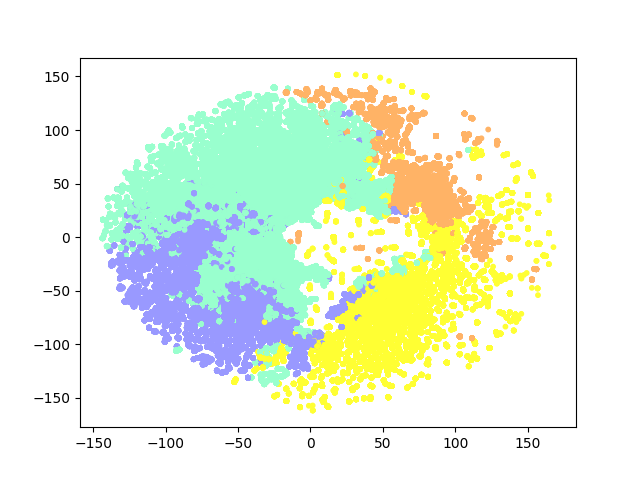
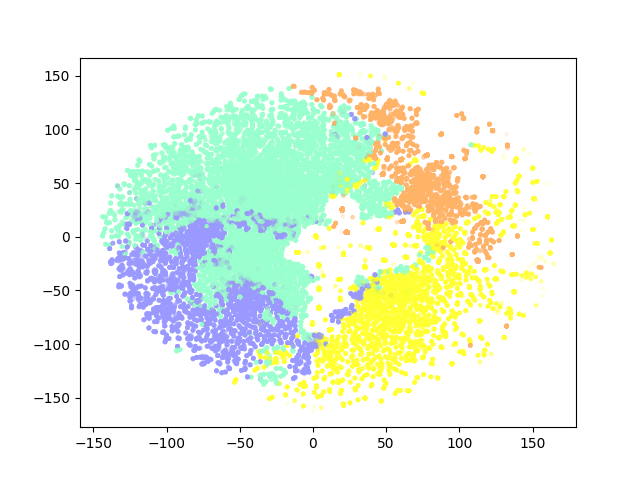
tsne final & 3d visualization script update and report

diff --git a/3d_visualization/visualization_script.py b/3d_visualization/visualization_script.py
@@ -13,20 +13,12 @@ if __name__ == '__main__':
     df = pd.read_pickle('../data/labeling_visualizations/kmeans_clean_labeling.pkl')
     print(df.columns)
 
-    # it is supported only for numerical features
-    labeling_features = ['nightly_temperature', 'nremhr', 'spo2', 'rmssd', 'full_sleep_breathing_rate', 'deep_sleep_breathing_rate',
-       'light_sleep_breathing_rate', 'rem_sleep_breathing_rate', 'stress_score', 'responsiveness_points', 'wrist_temperature', 'vo2max', 'oxygen_variation',
-       'scl_avg', 'mindfulness_start_heart_rate', 'mindfulness_end_heart_rate', 'resting_heart_rate', 'mood_value', 'bpm']
-
     # add jitter factor to the data
-    visualize_df = df.copy()
     jitter_factor = 1.2
-    for column in labeling_features:
-        visualize_df[column] = visualize_df[column] + np.random.uniform(-jitter_factor, jitter_factor, size=visualize_df[column].shape)
+    df['cluster'] = df['cluster'] + np.random.uniform(-jitter_factor, jitter_factor, size=df['cluster'].shape)
 
     # run the 3d plot
-    visualize_df.dropna(subset=['stress_score'], inplace=True)
-    fig = px.scatter_3d(visualize_df, x='steps', y='calories', z='very_active_minutes', color='stress_score', color_continuous_scale=px.colors.sequential.Viridis, opacity=0.7)
+    fig = px.scatter_3d(df, x='steps', y='calories', z='very_active_minutes', color='cluster', color_continuous_scale=px.colors.sequential.Viridis, opacity=0.7)
     fig.update_traces(marker=dict(size=3))
     fig.update_layout(scene=dict(xaxis_title='Steps', yaxis_title='Calories', zaxis_title='Very Active Minutes'))
     fig.show()

diff --git a/clustering/tsne.py b/clustering/tsne.py
@@ -12,11 +12,10 @@ if __name__ == '__main__':
     data.drop(columns=['id', 'date', 'cluster'], inplace=True)
 
     # coloring data points based on cluster
-    # color_map = {0: '#9999ff', 1: '#ffff33', 2: '#99ffce', 3: '#ffb366'}  # for clean and categories
-    color_map = {-1: '#9999ff', 0: '#ffff33', 1: '#99ffce', 2: '#ffb366', 3: '#66ccff'}  # for full
+    color_map = {0: '#9999ff', 1: '#ffff33', 2: '#99ffce', 3: '#ffb366'}
     colors = clusters.map(color_map)
 
     # visualize data through TSNE
     projection = TSNE().fit_transform(data)
-    plt.scatter(*projection.T, s=10, c=colors)
+    plt.scatter(*projection.T, alpha=0.1, s=6, c=colors)
     plt.show()
